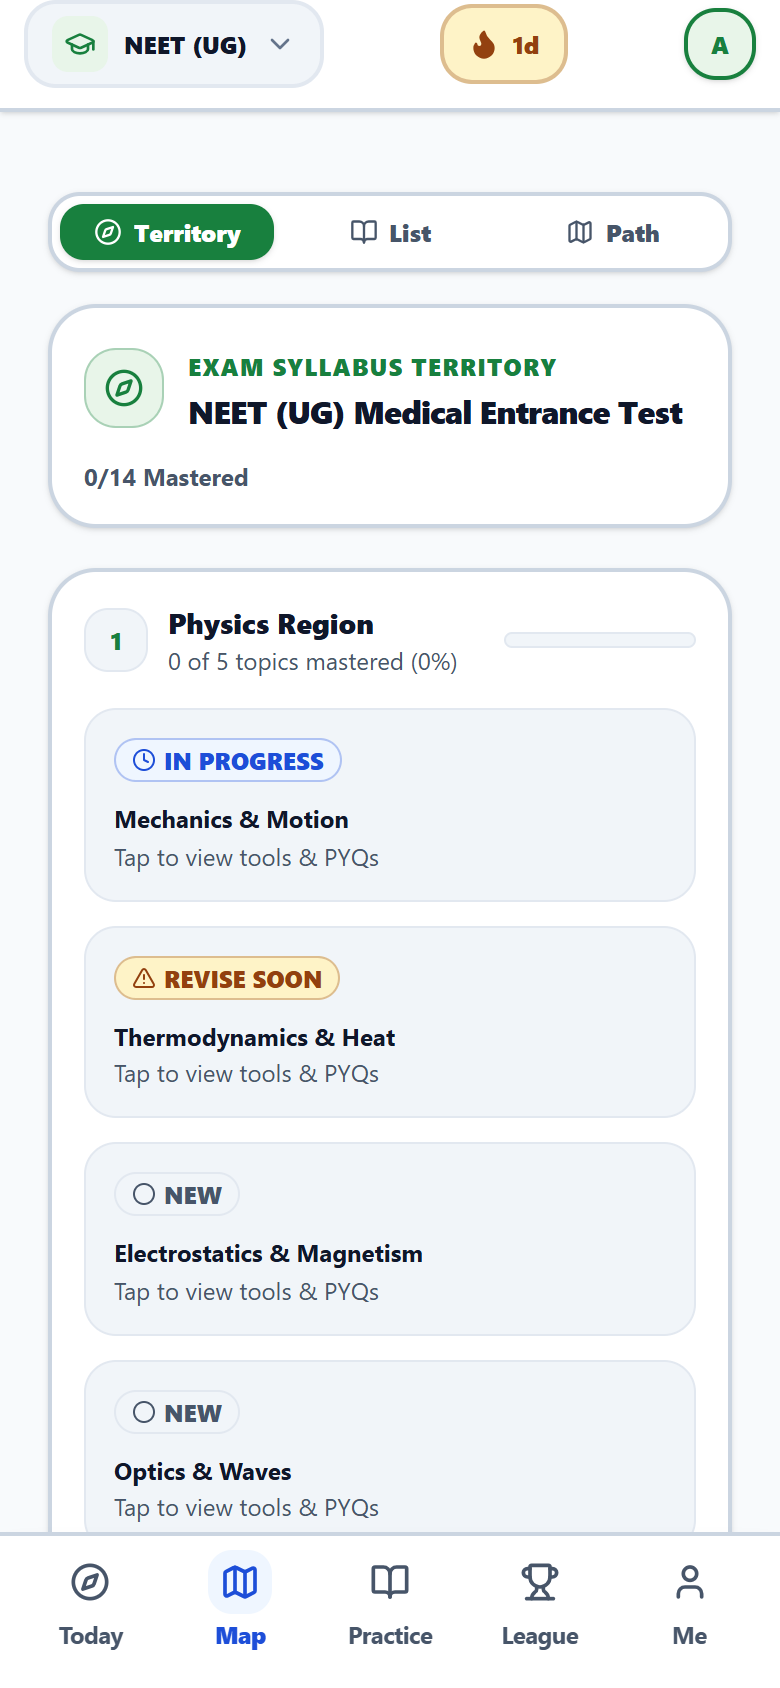
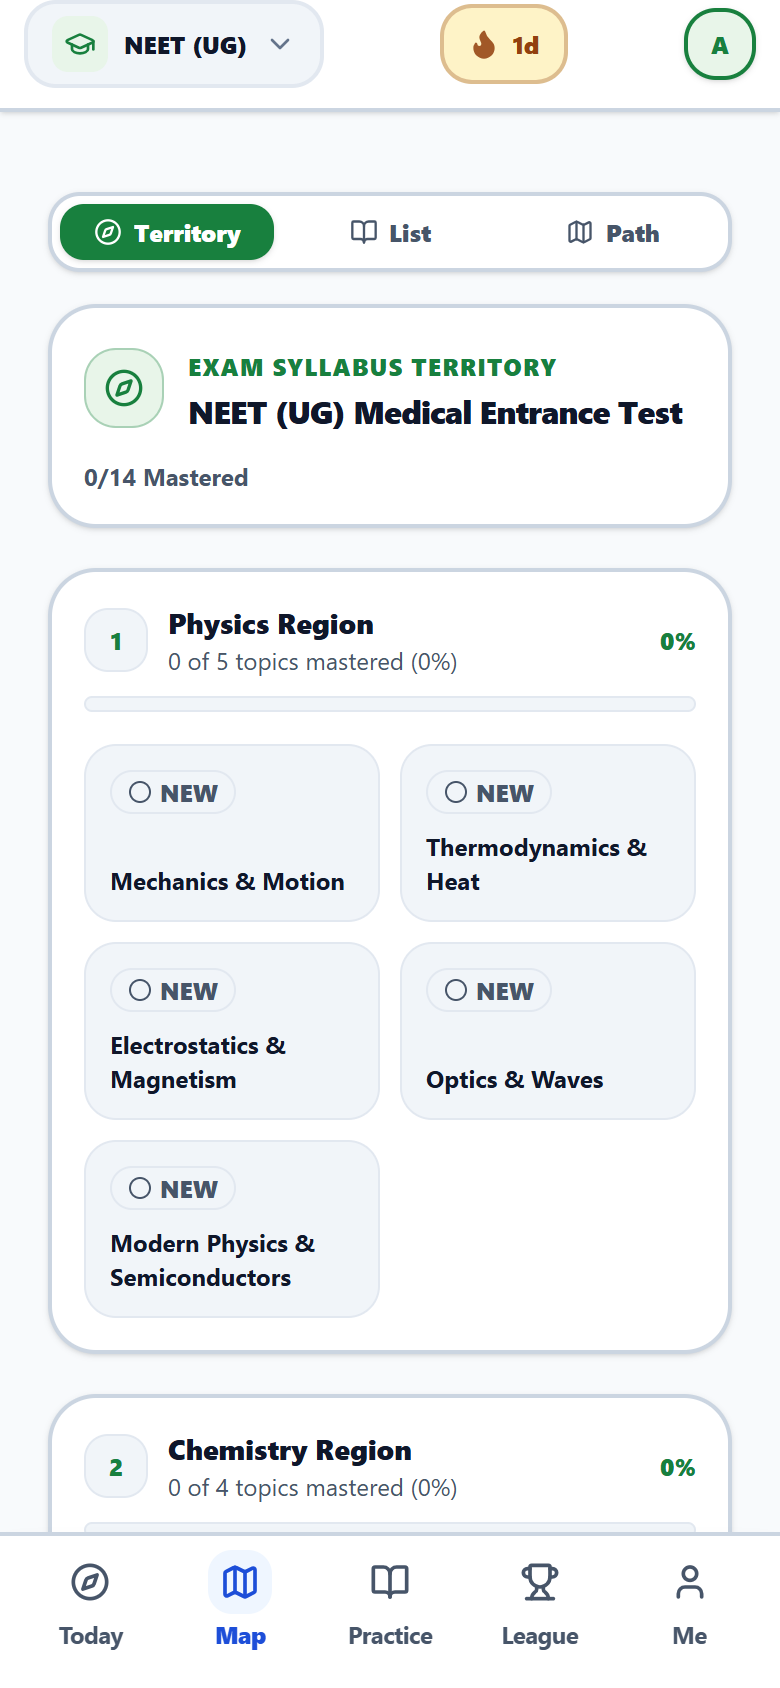
Phase 4a (fixed 2)

diff --git a/src/components/MapJourneyView.tsx b/src/components/MapJourneyView.tsx
@@ -35,7 +35,7 @@ interface MapJourneyViewProps {
   onRequireLogin: () => void;
 }
 
-type MasteryState = 'new' | 'learning' | 'strong' | 'fading';
+type MasteryState = 'new' | 'learning' | 'strong';
 
 interface TopicCellData {
   id: string;
@@ -61,6 +61,26 @@ export const MapJourneyView: React.FC<MapJourneyViewProps> = ({
   const [completedTopicIds, setCompletedTopicIds] = useState<Set<string>>(() =>
     getLocalCompletedSubtopicIds(user.id, selectedExam)
   );
+
+  const normExam = normalizeExamId(selectedExam);
+  const startedKey = `aspirantx_started_topics_${user.id || 'guest'}_${normExam}`;
+  const [startedTopicIds, setStartedTopicIds] = useState<Set<string>>(() => {
+    try {
+      const raw = localStorage.getItem(startedKey);
+      if (raw) return new Set(JSON.parse(raw));
+    } catch {}
+    return new Set();
+  });
+
+  const handleStartTopic = (topic: TopicCellData) => {
+    const updated = new Set(startedTopicIds);
+    updated.add(topic.id);
+    updated.add(topic.title);
+    setStartedTopicIds(updated);
+    try {
+      localStorage.setItem(startedKey, JSON.stringify(Array.from(updated)));
+    } catch {}
+  };
 
   useEffect(() => {
     const handleSync = () => {
@@ -98,14 +118,13 @@ export const MapJourneyView: React.FC<MapJourneyViewProps> = ({
       const cells: TopicCellData[] = topicList.map((topicTitle, tIdx) => {
         const topicId = `topic-${norm}-${sIdx}-${tIdx}`;
         const isDone = completedTopicIds.has(topicId) || completedTopicIds.has(topicTitle);
+        const isStarted = startedTopicIds.has(topicId) || startedTopicIds.has(topicTitle);
 
         let mastery: MasteryState = 'new';
         if (isDone) {
           mastery = 'strong';
-        } else if (tIdx === 0 && !isDone) {
+        } else if (isStarted) {
           mastery = 'learning';
-        } else if (tIdx === 1 && sIdx === 0) {
-          mastery = 'fading';
         } else {
           mastery = 'new';
         }
@@ -130,7 +149,7 @@ export const MapJourneyView: React.FC<MapJourneyViewProps> = ({
         progressPercent,
       };
     });
-  }, [examConfig, completedTopicIds, selectedExam]);
+  }, [examConfig, completedTopicIds, startedTopicIds, selectedExam]);
 
   const handleToggleCompletion = (topic: TopicCellData) => {
     soundFx.playTap();
@@ -175,13 +194,6 @@ export const MapJourneyView: React.FC<MapJourneyViewProps> = ({
           badgeClass: 'bg-[var(--sr-blue-subtle)] text-[var(--sr-blue)] border-[var(--sr-blue)]/30',
           icon: Clock,
           color: 'var(--sr-blue)',
-        };
-      case 'fading':
-        return {
-          label: 'Revise Soon',
-          badgeClass: 'bg-[var(--sr-amber-subtle)] text-[var(--sr-amber)] border-[var(--sr-amber)]/30',
-          icon: AlertTriangle,
-          color: 'var(--sr-amber)',
         };
       case 'new':
       default:
@@ -270,22 +282,29 @@ export const MapJourneyView: React.FC<MapJourneyViewProps> = ({
               className="p-4 sm:p-5 rounded-3xl bg-[var(--sr-surface)] border-2 border-[var(--sr-line-strong)] space-y-4 shadow-sm"
             >
               {/* Region Header */}
-              <div className="flex items-center justify-between gap-3 flex-wrap">
-                <div className="flex items-center gap-2.5">
-                  <div className="w-8 h-8 rounded-xl bg-[var(--sr-surface-2)] border border-[var(--sr-line)] flex items-center justify-center text-[var(--sr-primary)] font-black text-xs">
-                    {sIdx + 1}
+              <div className="space-y-2.5">
+                <div className="flex items-center justify-between gap-3">
+                  <div className="flex items-center gap-2.5 min-w-0">
+                    <div className="w-8 h-8 rounded-xl bg-[var(--sr-surface-2)] border border-[var(--sr-line)] flex items-center justify-center text-[var(--sr-primary)] font-black text-xs shrink-0">
+                      {sIdx + 1}
+                    </div>
+                    <div className="min-w-0">
+                      <h3 className="text-sm sm:text-base font-black text-[var(--sr-text)] truncate">
+                        {territory.subject} Region
+                      </h3>
+                      <p className="text-xs text-[var(--sr-text-muted)] truncate">
+                        {territory.completedCount} of {territory.totalCount} topics mastered ({territory.progressPercent}%)
+                      </p>
+                    </div>
                   </div>
-                  <div>
-                    <h3 className="text-sm sm:text-base font-black text-[var(--sr-text)]">
-                      {territory.subject} Region
-                    </h3>
-                    <p className="text-xs text-[var(--sr-text-muted)]">
-                      {territory.completedCount} of {territory.totalCount} topics mastered ({territory.progressPercent}%)
-                    </p>
-                  </div>
+
+                  <span className="text-xs font-black text-[var(--sr-primary)] shrink-0">
+                    {territory.progressPercent}%
+                  </span>
                 </div>
 
-                <div className="w-24 sm:w-32 bg-[var(--sr-surface-2)] h-2 rounded-full overflow-hidden border border-[var(--sr-line)]">
+                {/* Region progress bar full width under the region title */}
+                <div className="w-full bg-[var(--sr-surface-2)] h-2 rounded-full overflow-hidden border border-[var(--sr-line)]">
                   <div
                     className="bg-[var(--sr-primary)] h-full rounded-full transition-all duration-300"
                     style={{ width: `${territory.progressPercent}%` }}
@@ -293,8 +312,8 @@ export const MapJourneyView: React.FC<MapJourneyViewProps> = ({
                 </div>
               </div>
 
-              {/* Grid of MasteryCells */}
-              <div className="grid grid-cols-1 sm:grid-cols-2 md:grid-cols-3 gap-3">
+              {/* Compact 2-column Grid of MasteryCells */}
+              <div className="grid grid-cols-2 gap-2.5 sm:gap-3">
                 {territory.cells.map((cell) => {
                   const badge = getMasteryBadge(cell.mastery);
                   const Icon = badge.icon;
@@ -305,32 +324,27 @@ export const MapJourneyView: React.FC<MapJourneyViewProps> = ({
                         soundFx.playTap();
                         setSelectedTopic(cell);
                       }}
-                      className={`p-3.5 rounded-2xl border text-left transition-all cursor-pointer flex flex-col justify-between gap-2.5 active:scale-[0.98] ${
+                      className={`p-3 rounded-2xl border text-left transition-all cursor-pointer flex flex-col justify-between gap-2 active:scale-[0.98] min-h-[82px] select-none ${
                         cell.isCompleted
                           ? 'bg-[var(--sr-surface-2)] border-[var(--sr-primary)]/40 hover:border-[var(--sr-primary)]'
                           : 'bg-[var(--sr-surface-2)] border-[var(--sr-line)] hover:border-[var(--sr-line-strong)]'
                       }`}
                     >
-                      <div className="flex items-center justify-between gap-2 w-full">
-                        <span className={`px-2 py-0.5 rounded-full text-xs font-black uppercase border flex items-center gap-1 ${badge.badgeClass}`}>
+                      <div className="flex items-center justify-between gap-1.5 w-full">
+                        <span className={`px-2 py-0.5 rounded-full text-xs font-black uppercase border flex items-center gap-1 shrink-0 ${badge.badgeClass}`}>
                           <Icon className="w-3 h-3" />
                           <span>{badge.label}</span>
                         </span>
                         {cell.isCompleted && (
-                          <span className="w-5 h-5 rounded-full bg-[var(--sr-primary)] text-[var(--sr-on-primary)] flex items-center justify-center text-xs font-black">
+                          <span className="w-4 h-4 rounded-full bg-[var(--sr-primary)] text-[var(--sr-on-primary)] flex items-center justify-center text-[10px] font-black shrink-0">
                             ✓
                           </span>
                         )}
                       </div>
 
-                      <div>
-                        <h4 className="text-xs sm:text-sm font-bold text-[var(--sr-text)] line-clamp-2 leading-snug">
-                          {cell.title}
-                        </h4>
-                        <span className="text-xs text-[var(--sr-text-muted)] block mt-0.5">
-                          Tap to view tools & PYQs
-                        </span>
-                      </div>
+                      <h4 className="text-xs sm:text-sm font-bold text-[var(--sr-text)] line-clamp-2 leading-snug">
+                        {cell.title}
+                      </h4>
                     </button>
                   );
                 })}
@@ -397,6 +411,7 @@ export const MapJourneyView: React.FC<MapJourneyViewProps> = ({
               {/* 1. Learn */}
               <button
                 onClick={() => {
+                  handleStartTopic(selectedTopic);
                   setSelectedTopic(null);
                   onNavigate('syllabus');
                 }}
@@ -417,6 +432,7 @@ export const MapJourneyView: React.FC<MapJourneyViewProps> = ({
               {/* 2. PYQs */}
               <button
                 onClick={() => {
+                  handleStartTopic(selectedTopic);
                   setSelectedTopic(null);
                   onNavigate('pyq');
                 }}
@@ -437,6 +453,7 @@ export const MapJourneyView: React.FC<MapJourneyViewProps> = ({
               {/* 3. Flashcards */}
               <button
                 onClick={() => {
+                  handleStartTopic(selectedTopic);
                   setSelectedTopic(null);
                   onNavigate('flashcards');
                 }}
@@ -457,6 +474,7 @@ export const MapJourneyView: React.FC<MapJourneyViewProps> = ({
               {/* 4. Ask Veer */}
               <button
                 onClick={() => {
+                  handleStartTopic(selectedTopic);
                   setSelectedTopic(null);
                   onNavigate('chat');
                 }}

diff --git a/src/components/StudentDashboard.tsx b/src/components/StudentDashboard.tsx
@@ -202,7 +202,31 @@ export const StudentDashboard: React.FC<StudentDashboardProps> = ({
     };
   }, [activeExamTag, userProfile.id, userProfile.streakDays, userProfile.xp]);
 
-  // Derive "Continue Where You Left Off" data from localStorage
+  // Honest Daily Pace Formula: Compares real progress against expected milestone
+  const calculatePaceStatus = (
+    topicsCompleted: number,
+    totalSyllabusTopics: number,
+    daysLeftForExam: number,
+    totalPrepDays: number = 365
+  ) => {
+    const safeTotal = Math.max(1, totalSyllabusTopics || 14);
+    const daysElapsed = Math.max(0, Math.min(totalPrepDays, totalPrepDays - daysLeftForExam));
+    const expectedRate = safeTotal / totalPrepDays;
+    const expectedCompleted = Math.round(expectedRate * daysElapsed);
+    const diff = expectedCompleted - topicsCompleted;
+
+    if (diff <= 0) {
+      return { isBehind: false, label: 'On Track', behindCount: 0, expectedCompleted };
+    }
+    return {
+      isBehind: true,
+      label: `${diff} ${diff === 1 ? 'topic' : 'topics'} behind`,
+      behindCount: diff,
+      expectedCompleted,
+    };
+  };
+
+  // Derive "Continue Where You Left Off" data from localStorage or active exam syllabus
   const getLastStudiedTopic = () => {
     try {
       const histKey = `aspirantx_last_topic_${userProfile.id}_${activeExamTag}`;
@@ -210,8 +234,14 @@ export const StudentDashboard: React.FC<StudentDashboardProps> = ({
       if (stored) return JSON.parse(stored) as { subject: string; chapter: string; subtopic: string; tab: ActiveTab };
     } catch {}
     const examCfg = getExamConfig(activeExamTag);
-    const subject = examCfg.subjects?.[0] || 'Core Subject';
-    return { subject, chapter: 'Chapter 1', subtopic: 'Foundational Overview', tab: 'syllabus' as ActiveTab };
+    const subject = examCfg.subjects?.[0] || 'Physics';
+    const firstTopic = examCfg.syllabusTree?.[subject]?.topics?.[0] || 'Mechanics & Motion';
+    return { 
+      subject, 
+      chapter: firstTopic, 
+      subtopic: `${firstTopic} — High-Yield Mastery`, 
+      tab: 'syllabus' as ActiveTab 
+    };
   };
 
   const lastTopic = getLastStudiedTopic();
@@ -361,8 +391,18 @@ export const StudentDashboard: React.FC<StudentDashboardProps> = ({
 
   const recAction = getRecommendationAction();
 
-  const isPaceBehind = data.topicsCompleted < 3 && data.daysLeftForExam < 300;
-  const paceLabel = isPaceBehind ? '2 topics behind' : 'On Track';
+  const totalCoreTopics = Object.values(examCfg2.syllabusTree || {}).reduce(
+    (acc, node) => acc + (node.topics?.length || 0),
+    0
+  ) || 14;
+
+  const paceStatus = calculatePaceStatus(
+    data.topicsCompleted,
+    totalCoreTopics,
+    data.daysLeftForExam
+  );
+  const isPaceBehind = paceStatus.isBehind;
+  const paceLabel = paceStatus.label;
 
   const rideStops = [
     {
@@ -421,12 +461,12 @@ export const StudentDashboard: React.FC<StudentDashboardProps> = ({
             />
             <div className="min-w-0">
               <div className="flex items-center gap-2 mb-0.5">
-                <span className="w-2 h-2 rounded-full bg-[var(--sr-primary)] animate-pulse" />
+                <span className="w-2.5 h-2.5 rounded-full bg-[var(--sr-primary)] animate-pulse shrink-0 flex-shrink-0" />
                 <span className="text-xs font-black uppercase tracking-wider text-[var(--sr-primary)]">
                   Veer's Daily Ride Advice
                 </span>
               </div>
-              <p className="text-xs sm:text-sm font-bold text-[var(--sr-text)] line-clamp-2">
+              <p className="text-xs sm:text-sm font-bold text-[var(--sr-text)] leading-snug">
                 {VEER_QUOTES[mascotQuoteIndex % VEER_QUOTES.length]}
               </p>
               <span className="text-xs text-[var(--sr-text-muted)] font-medium mt-0.5 block">
@@ -583,22 +623,22 @@ export const StudentDashboard: React.FC<StudentDashboardProps> = ({
       <div className="rounded-3xl bg-[var(--sr-surface)] border-2 border-[var(--sr-line-strong)] overflow-hidden shadow-sm">
         <button
           onClick={() => setShowMoreForToday(!showMoreForToday)}
-          className="w-full p-4 flex items-center justify-between text-left hover:bg-[var(--sr-surface-2)] transition-colors cursor-pointer select-none"
+          className="w-full p-4 flex items-center justify-between text-left hover:bg-[var(--sr-surface-2)] transition-colors cursor-pointer select-none gap-3"
         >
-          <div className="flex items-center gap-2.5">
-            <div className="w-7 h-7 rounded-xl bg-[var(--sr-primary-subtle)] border border-[var(--sr-primary)]/30 flex items-center justify-center text-[var(--sr-primary)]">
+          <div className="flex items-center gap-2.5 min-w-0 pr-2">
+            <div className="w-7 h-7 rounded-xl bg-[var(--sr-primary-subtle)] border border-[var(--sr-primary)]/30 flex items-center justify-center text-[var(--sr-primary)] shrink-0">
               <CheckSquare className="w-4 h-4" />
             </div>
-            <div>
-              <h3 className="text-xs sm:text-sm font-black text-[var(--sr-text)] uppercase tracking-wider">More for today</h3>
-              <p className="text-xs text-[var(--sr-text-muted)]">Daily supplementary targets & bonus XP</p>
+            <div className="min-w-0">
+              <h3 className="text-xs sm:text-sm font-black text-[var(--sr-text)] uppercase tracking-wider truncate">More for today</h3>
+              <p className="text-xs text-[var(--sr-text-muted)] truncate">Daily supplementary targets & bonus XP</p>
             </div>
           </div>
-          <div className="flex items-center gap-2">
-            <span className="text-xs font-bold text-[var(--sr-primary)]">
+          <div className="flex items-center gap-2 shrink-0">
+            <span className="text-xs font-bold text-[var(--sr-primary)] whitespace-nowrap">
               {dailyGoals.filter((g) => g.completed).length}/{dailyGoals.length} Done
             </span>
-            <ChevronRight className={`w-4 h-4 text-[var(--sr-text-muted)] transition-transform duration-200 ${showMoreForToday ? 'rotate-90' : ''}`} />
+            <ChevronRight className={`w-4 h-4 text-[var(--sr-text-muted)] shrink-0 transition-transform duration-200 ${showMoreForToday ? 'rotate-90' : ''}`} />
           </div>
         </button>
 

diff --git a/src/data/appFeatureIndex.ts b/src/data/appFeatureIndex.ts
@@ -23,7 +23,7 @@ export const APP_FEATURES: AppFeatureItem[] = [
     label: 'Map',
     tab: 'syllabus',
     keywords: ['map', 'journey', 'syllabus', 'curriculum', 'path', 'topics', 'chapters'],
-    description: 'Winding chapter journey and syllabus mastery roadmap',
+    description: 'Subject territory regions and topic mastery roadmap',
     badge: 'Journey',
     iconName: 'Map',
   },
